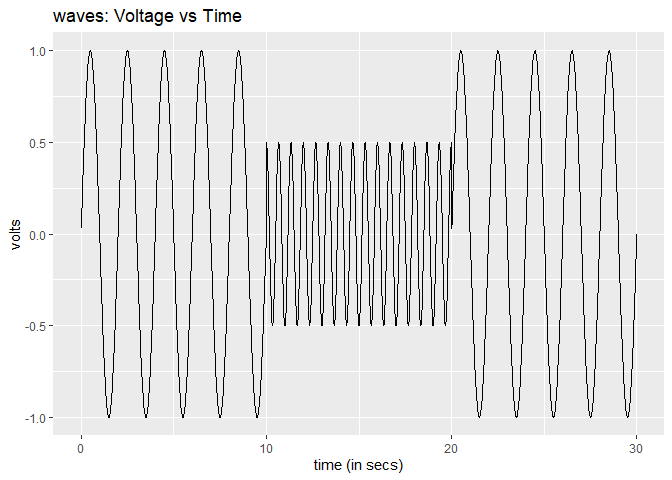
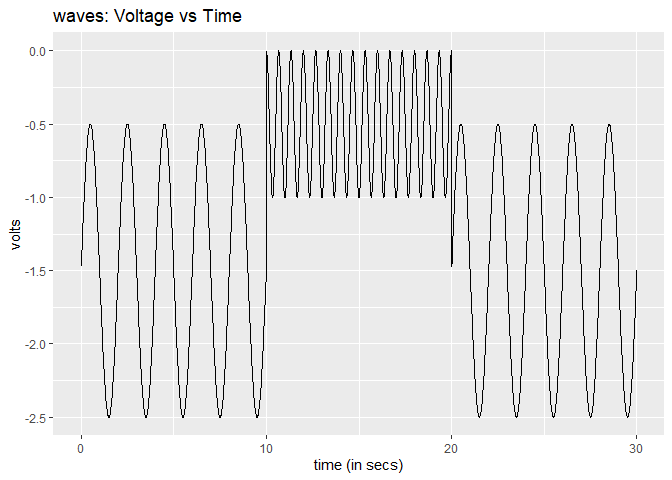
update readme capitalization + fbox example and add github action

diff --git a/README.md b/README.md
@@ -1,10 +1,11 @@
 
 <!-- README.md is generated from README.Rmd. Please edit that file -->
 
-# epgminer
+# EPGminer
 
 <!-- badges: start -->
 
+[![R-CMD-check](https://github.com/LylChun/epgminer/workflows/R-CMD-check/badge.svg)](https://github.com/LylChun/epgminer/actions)
 <!-- badges: end -->
 
 Electrical Penetration Graph (EPG) is a technique used to monitor insect
@@ -12,17 +13,17 @@ feeding behavior. Studying the voltage waveforms in EPG data allows one
 to analyze the insect-host relationship and gain insights into what
 makes a suitable host.
 
-To facilitate the analysis of EPG data, epgminer contains various
+To facilitate the analysis of EPG data, EPGminer contains various
 functions for working with voltage time series data as well as ANA
 annotation files from manual annotation software.
 
-One primary utility of using epgminer for analysis is the ability to
+One primary utility of using EPGminer for analysis is the ability to
 calculate frequencies using the Fourier Transform. In this way,
 waveforms both within and between datasets can be analyzed for
-differences in constituent frequency. Other metrics such as duration and
-number can also be calculated.
+differences in constituent frequency. Other metrics such as relative
+amplitude (volts) can also be calculated.
 
-The other major function of the package epgminer is the ability to
+The other major function of the package EPGminer is the ability to
 generate visuals. The plotting functions are all in the format plot\_x
 where x denotes the type of plot. The types of plots currently supported
 are: voltage time series, labeled time-series, Fourier transformed data,
@@ -39,10 +40,13 @@ devtools::install_github("LylChun/epgminer")
 
 ## EPGminer Shiny App
 
-All of the functionality of the epgminer package is also accessible
-through the EPGminer app built using the Shiny framework. Additionally,
-the app contains a novel algorithm for semi-automatic labeling of
-waveforms without the need for manual annotations.
+Metric calculations and visuals are also accessible through the EPGminer
+app built using the Shiny framework. Note that the app is a streamlined
+version with only the primary metrics - frequency and relative
+amplitude. Some supplementary metrics are available in the package
+itself. Additionally, the app contains a novel, experimental algorithm
+for semi-automatic labeling of waveforms without the need for manual
+annotations.
 
 The app may be accessed in two ways: (i) directly through R using
 epgminer::epgminer\_app(), or (ii) as a web application at:
@@ -50,7 +54,7 @@ epgminer::epgminer\_app(), or (ii) as a web application at:
 
 ## Example
 
-Data to be analyzed using epgpminer must be in one of the accepted file
+Data to be read in using epgpminer must be in one of the accepted file
 formats. Raw voltage data must be in txt file(s) with the structure
 time;volts. ANA annotation files must have the first two columns be
 waveform then time. The columns do not need to be labeled, and any
@@ -79,8 +83,9 @@ demonstrate the frequency calculation in epgminer.
 ``` r
 library(epgminer)
 library(tibble)
+#> Warning: package 'tibble' was built under R version 4.1.2
 library(dplyr)
-#> Warning: package 'dplyr' was built under R version 4.0.4
+#> Warning: package 'dplyr' was built under R version 4.1.1
 example <- tibble(time = seq(0, 10, 0.01), volts = sin(pi*time))
 plot_vts(example, aggregate = FALSE)
 ```
@@ -166,18 +171,17 @@ waves <- times %>%
   mutate(volts = dplyr::if_else(waveform %in% c(1, 3), 
                                 sin(pi*time), 0.5*cos(3*pi*time)),
          waveform = dplyr::if_else(waveform %in% c(1, 3), "C", "G")) %>%
+  # drop volts to simulate real epg data where G is generally higher voltage
+  mutate(volts = if_else(waveform == "C", volts - 1.5, volts - 0.5)) %>%
   select(time, volts, waveform) %>%
   ungroup()
 plot_vts(waves, aggregate = FALSE)
 ```
 
-<img src="man/figures/README-unnamed-chunk-6-1.png" width="100%" />
-
-Three metrics can be calculated for each waveform: frequency, duration,
-and number. These metrics are applied per individual waveform or
-waveform type in the case of number. Note that “C” and “G” were labeled
-simply as examples and are not representative of true waveform C or G
-data.
+<img src="man/figures/README-unnamed-chunk-6-1.png" width="100%" /> The
+two main waveform metrics are frequency and relative amplitude (volts)
+which are shown below. Note that “C” and “G” were labeled simply as
+examples and are not representative of true waveform C or G data.
 
 ``` r
 wave_topfreq(waves)
@@ -187,20 +191,13 @@ wave_topfreq(waves)
 #> 1 C              0.5
 #> 2 G              1.5
 #> 3 C              0.5
-wave_duration(waves)
-#> # A tibble: 4 x 2
-#>   waveform duration
-#>   <chr>       <dbl>
-#> 1 Feeding     30.0 
-#> 2 C            9.99
-#> 3 G            9.99
-#> 4 C            9.99
-wave_number(waves)
-#> # A tibble: 2 x 2
-#>   waveform number
-#>   <chr>     <int>
-#> 1 C             2
-#> 2 G             1
+wave_volts(waves)
+#> # A tibble: 3 x 4
+#>   waveform mean_volts sd_volts relative_amplitude
+#>   <chr>         <dbl>    <dbl>              <dbl>
+#> 1 C              -1.5    0.707                 30
+#> 2 G              -0.5    0.354                 10
+#> 3 C              -1.5    0.707                 30
 ```
 
 Lastly, there are a number of visuals in the waveform family of
@@ -210,8 +207,8 @@ type. The plot\_pie generates pie charts of time or number depending on
 the input parameter pietype. These pie charts are generated using plotly
 and are thus interactive within RStudio. The frequency variation boxplot
 will show the variation in main frequency within a waveform type. The
-example data has no variation but actual data can contain great
-variation in frequency within a single waveform type.
+waves2 example data illustrates this with differing frequencies given
+for the two “waveform C” instances.
 
 ``` r
 # color coded by waveform
@@ -236,7 +233,27 @@ plot_pie(waves, pietype = "number")
 
 ``` r
 # frequency variation 
-plot_fbox(waves)
+waves2 <- times %>%
+  group_by(waveform) %>%
+  mutate(volts = case_when(
+    waveform == 1 ~ sin(pi*time),
+    waveform == 2 ~ 0.5*cos(3*pi*time),
+    # make "second C" a different frequency to show in frequency boxplot
+    waveform == 3 ~ sin(0.5*pi*time)
+  ),
+  waveform = dplyr::if_else(waveform %in% c(1, 3), "C", "G")) %>%
+  # drop volts to simulate real epg data where G is generally higher voltage
+  mutate(volts = if_else(waveform == "C", volts - 1.5, volts - 0.5)) %>%
+  select(time, volts, waveform) %>%
+  ungroup()
+wave_topfreq(waves2)
+#> # A tibble: 3 x 2
+#>   waveform frequency
+#>   <chr>        <dbl>
+#> 1 C              0.5
+#> 2 G              1.5
+#> 3 C              0.3
+plot_fbox(waves2)
 ```
 
 <img src="man/figures/README-unnamed-chunk-8-4.png" width="100%" />
